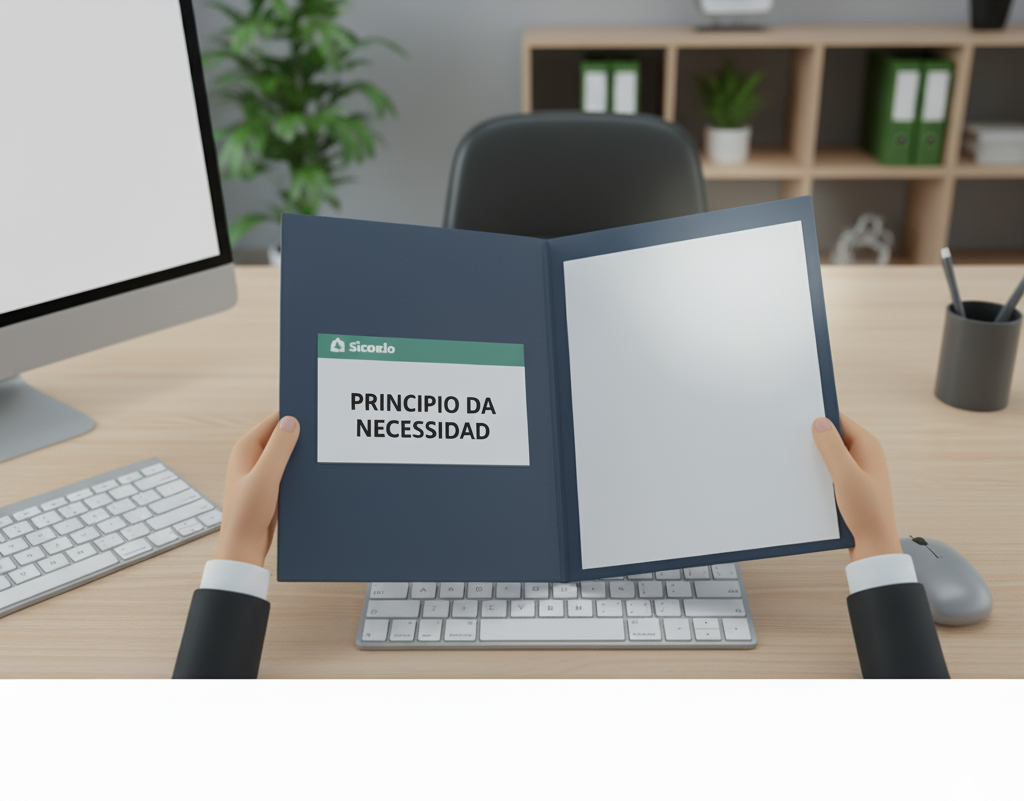
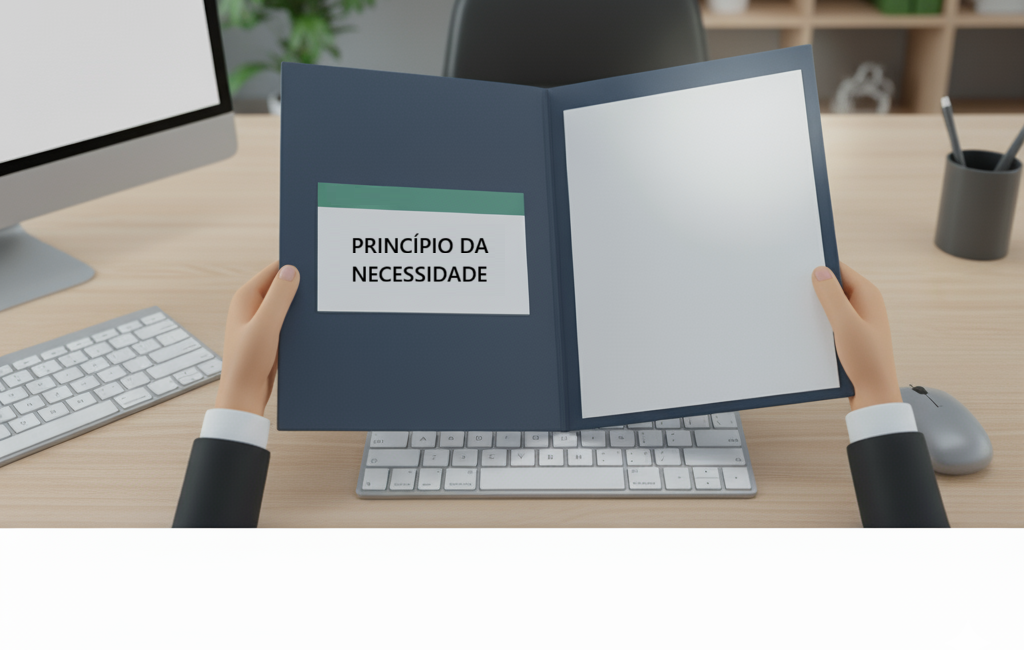
ajustes

diff --git a/Páginas de Storybook/Untitled-5.html b/Páginas de Storybook/Untitled-5.html
@@ -256,7 +256,7 @@
             </div>
 
             <div id="frame-9" class="frame">
-                <img src="https://github.com/jeanscussel/credidefender/blob/main/Cen%C3%A1rios/Modulo%205/Gemini_Generated_Image_4h94wr4h94wr4h94.png?raw=true" class="scene-background" alt="Cenário: Regra de Ouro">
+                <img src="https://github.com/jeanscussel/credidefender/blob/main/Cen%C3%A1rios/Modulo%205/Gemini_Generated_Image_rqc6e2rqc6e2rqc6.png?raw=true" class="scene-background" alt="Cenário: Regra de Ouro">
                 <img src="https://via.placeholder.com/250x250/61B01D/046727?text=MASCOTE:+GRI-LI+(SÁBIO)" class="scene-mascot mascot-pos-direita" alt="Mascote Gri-Li">
                 <div class="dialogue-box">
                     <p>Mas calma! Para evitar essas gafes... digo, acidentes... temos uma Regra de Ouro com duas partes. É fácil!</p>
